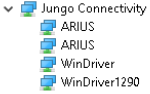
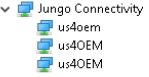
Updated driver installation docs.

diff --git a/docs/content/installation/index.rst b/docs/content/installation/index.rst
@@ -25,26 +25,30 @@ cable and is enabled in your Thunderbolt software, e.g.:
 
 The `Connection status` should be `Connected` (or something similar).
 
-Then perform the following driver installation procedure:
+Uninstall ARIUS drivers (if previously installed)
+~~~~~~~~~~~~~~~~~~~~~~~~~~~~~~~~~~~~~~~~~~~~~~~~~
+If ARIUS drivers are installed on your computer, uninstall them first. ARIUS
+drivers are the legacy drivers that were required before 0.4.3 version.
 
-1. Download and extract `arius-drivers-1290.zip <https://github.com/us4useu/arrus-public/releases/download/arius-drivers-1290/arius-drivers-1290.zip>`_ file,
-   for example into ``C:\local\arius-drivers-1290\`` directory.
-2. Disable driver signature enforcement on Windows 10:
+1. Open Windows Device Manager, uninstall **all** devices available in the
+   "Jungo Connectivity" node (including ``WinDriver1290``). **Check
+   "Delete the driver software for this device"**.
 
-    1. Click “start menu → Settings → Update and Security → Recovery →
-       Restart now” under Advanced startup
-    2. Press “Troubleshoot → Advanced options → Startup settings →
-       Restart”
-    3. After the computer restart a list of options should be presented.
-       Press F7 to choose “Disable driver signature enforcement”.
+.. figure:: img/uninstall_arius_drv.png
+    :scale: 100%
 
-3. Run ``C:\local\arius-drivers-1290\install.bat`` with **administrative
-   privileges**. Confirm driver installation if necessary.
-4. If your hardware is properly connected to the computer, a new ``PCI device``
-   node should be visible in Windows Device Manager. Install drivers for the
-   ``PCI Device`` using ``C:\local\arius-drivers-1290\drivers\arius.inf`` file.
+2. Restart computer.
 
-As a result, two ``ARIUS`` nodes should be visible in the Device Manager.
+
+Install Us4OEM drivers
+~~~~~~~~~~~~~~~~~~~~~~
+
+1. Download and extract `us4oem-drivers-1290.zip <https://github.com/us4useu/arrus-public/releases/download/us4oem-drivers-1290/us4oem-drivers-1290.zip>`_
+   file.
+3. Run ``install.bat`` with **administrative privileges**. Confirm driver
+   installation if necessary.
+
+As a result, ``us4om`` nodes should be visible in the Device Manager.
 
 .. figure:: img/dev_manager.png
     :scale: 100%
